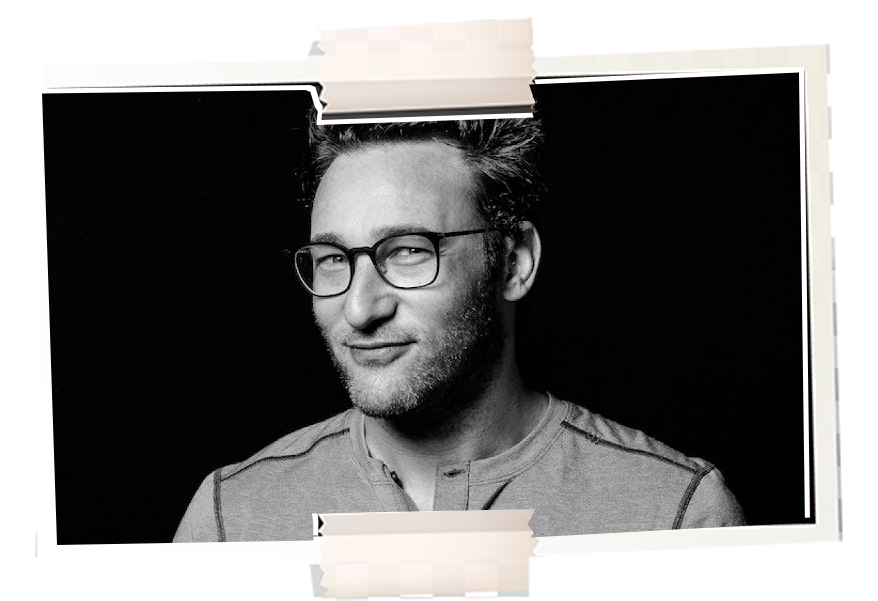
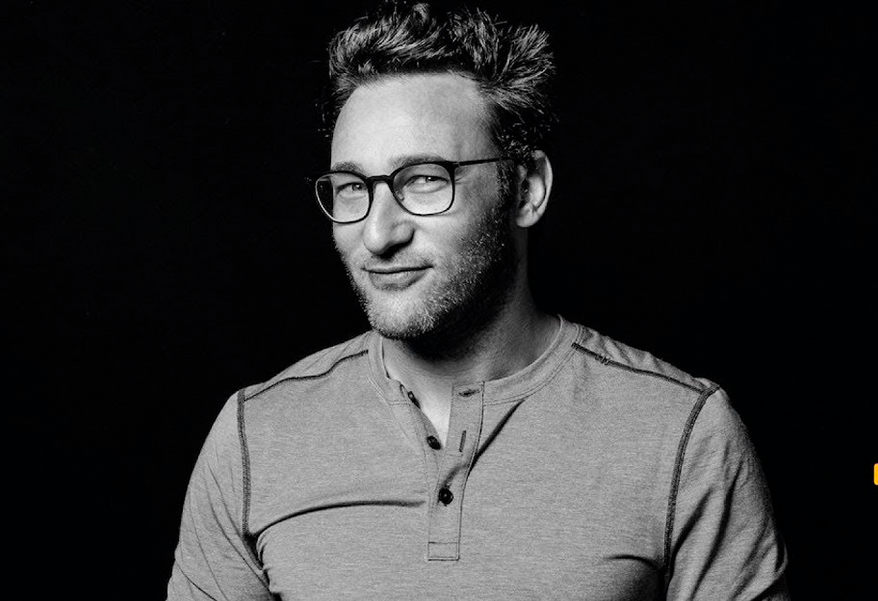
Reemplazo de section 3 con 2

diff --git a/index.html b/index.html
@@ -73,33 +73,23 @@
 
             </section>
 
-            <section class="two">
-                <div class="contenedorPadre" id="SimonSinel">
-                    <div class="contenedor-imagen">
-                        <img src="img/recursos/SimonSinel.png" alt="">
-
-                    </div>
-
-                    <div class="frase-autor">
-                        <h1>"Walk the talk, don't just talk the talk." <span>
-                            - Simon Sinek
-                        </span></h1>
-                    </div>
-
-                   
-                </div>
-            
-            </section>
-            <section class="three" id="section3">
-                <div class="contenedorPadre">
-                    <div>
-                        <h1>Primer Div</h1>
+            <div class="three" id="section3">
+                <div class="contenedorPadre3">
+                    <div class="fraseSeguros">
+                        <div class="contenedor-imagen">
+                            <img src="img/recursos/SimonSinel.png" alt="">
+    
+                        </div>
                     </div>
                     <div>
-                        <h1>Segundo Div</h1>
+                        <div class="frase-autor">
+                            <h1>"Walk the talk, don't just talk the talk." <span>
+                                - Simon Sinek
+                            </span></h1>
+                        </div>
                     </div>
                 </div>
-            </section>
+            </div>
 
 
             <section class="four" id="section4">
@@ -110,6 +100,7 @@
                 <h1>Sección 5</h1>
             </section> -->
         </div> 
+
 
     
 </div> 

diff --git a/style.css b/style.css
@@ -174,9 +174,8 @@ section{
     height: 80vh;
     display: flex;
     justify-content: center;
-    scroll-snap-align: start;
+    /* scroll-snap-align: start; */
     padding: 0 8rem;
-
 }
 
 .one{
@@ -184,8 +183,7 @@ section{
     margin-top: 2em;
     height: 50vh !important;
 
-}
-.two{
+}.two{
     background-color: rgb(0, 0, 0);
     justify-content: left;
     top: 0;
@@ -193,7 +191,11 @@ section{
     width: 100%;
 }
 .three{
-    background-color: rgb(164, 145, 36);
+    background-color: rgb(255, 255, 255);
+    padding: 0 !important;
+    width: 100%;
+        height: 60vh;
+        padding: 0 8rem;
 }
 .four{
     background-color: rgb(164, 36, 74);
@@ -212,7 +214,6 @@ section{
 
 .contenedorPadre{
     display: flex;
-    justify-content:space-around;
 }
 
 .tituloBienvenida{
@@ -268,13 +269,14 @@ section{
 
 
 .contenedor-imagen{
-    width: 40%;
+    width: 100%;
 }
 
 .frase-autor{
     width: 50%;
     display: flex;
     align-items: center;
+    padding: 4rem;
 }
 
 .frase-marketeros{
@@ -285,4 +287,19 @@ section{
 }
 .frase-autor h1{
     font-size: 1.5rem;
+    color: #000;
+}
+
+/* ======Seccion 3====== */
+
+.contenedorPadre3{
+    display: flex;
+    height: 100%;
+    margin-top: 3rem;
+}
+.fraseSeguros{
+    width: 50%;
+    padding: 2rem;
+    height: 100%;
+    background-color: #000000;
 }

diff --git a/main.js b/main.js
@@ -182,29 +182,29 @@ ScrollTrigger.create({
 
 // ======Animacion de Rotacion de Imagenes======
 
-ScrollTrigger.create({
-    trigger: '.contenedor-imagen',
-    start: 'top center',
-    onEnter: () => {
-      gsap.to('.contenedor-imagen', {
-        rotation: -10,
-        duration: 1,
-        ease: 'power1.inOut'
-      });
-    }
-  });
+// ScrollTrigger.create({
+//     trigger: '.contenedor-imagen',
+//     start: 'top center',
+//     onEnter: () => {
+//       gsap.to('.contenedor-imagen', {
+//         rotation: -10,
+//         duration: 1,
+//         ease: 'power1.inOut'
+//       });
+//     }
+//   });
 
-  ScrollTrigger.create({
-    trigger: '.frase-autor',
-    start: 'top center',
-    onEnter: () => {
-      gsap.from('.frase-autor', {
-        autoAlpha: 0,
-        duration: 2,
-        ease: 'power2.inOut'
-      });
-    }
-  });
+//   ScrollTrigger.create({
+//     trigger: '.frase-autor',
+//     start: 'top center',
+//     onEnter: () => {
+//       gsap.from('.frase-autor', {
+//         autoAlpha: 0,
+//         duration: 2,
+//         ease: 'power2.inOut'
+//       });
+//     }
+//   });
 
 
 // // ======Seccion 3======
@@ -229,3 +229,4 @@ ScrollTrigger.create({
       scrub: true
     }
   });
+ 
